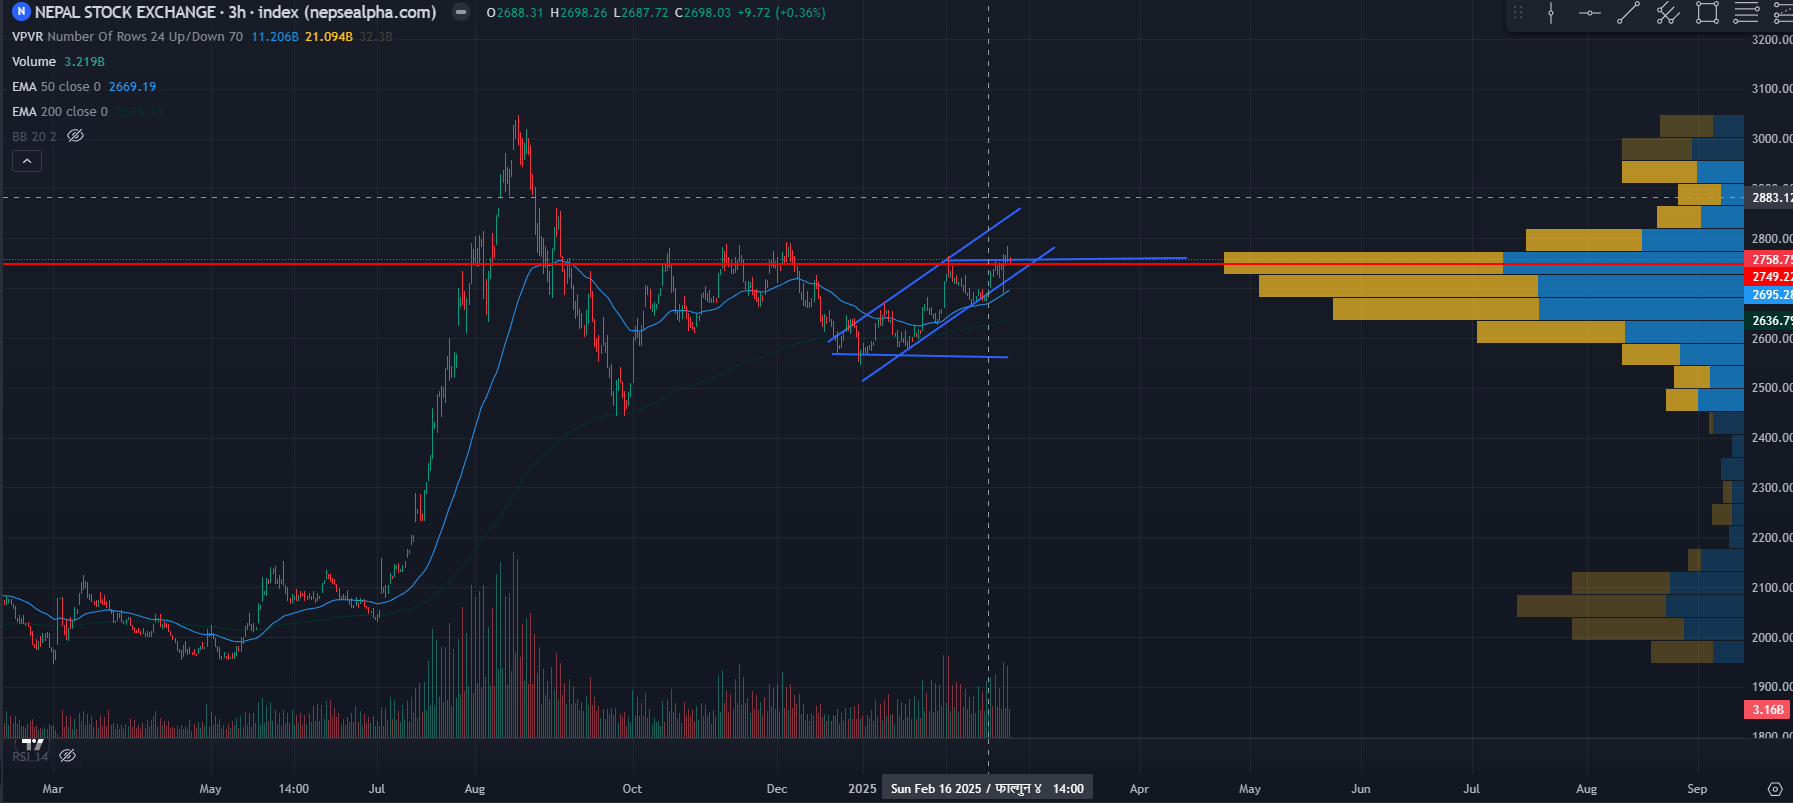
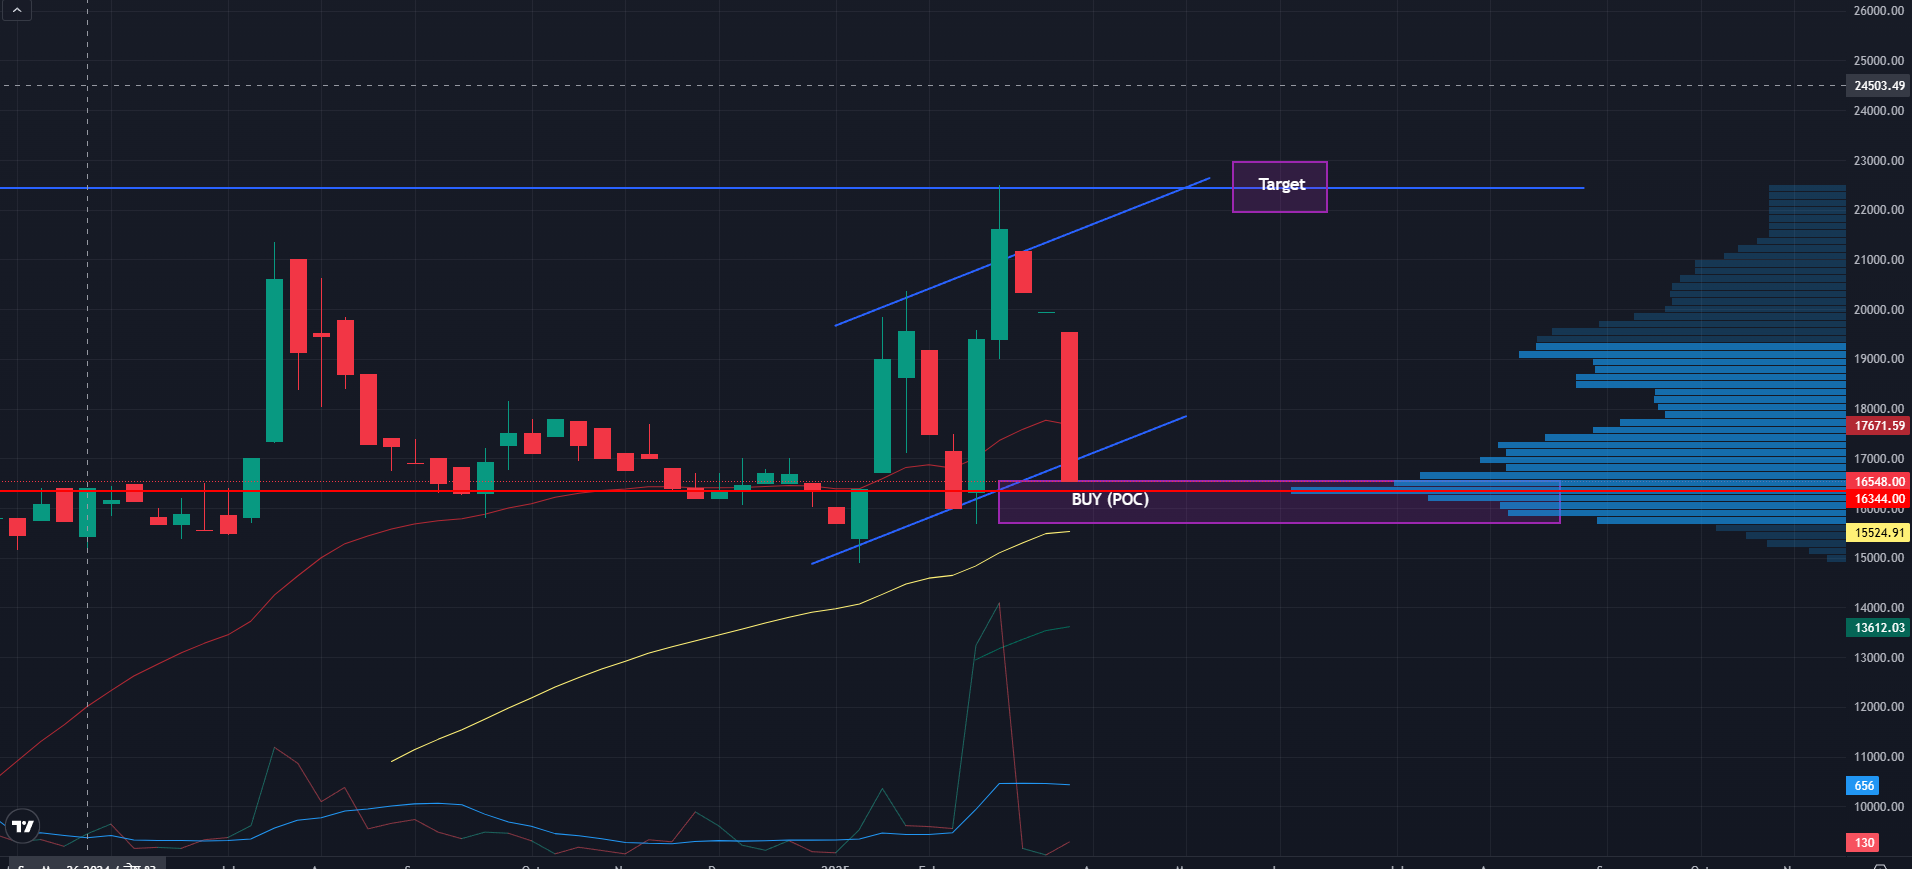
aws amplify push

diff --git a/src/components/dashboard/ValuationCard.tsx b/src/components/dashboard/ValuationCard.tsx
@@ -1,0 +1,64 @@
+import React  from "react";
+import { StockData } from "@/types/websocket";
+import { Card, CardContent, CardHeader } from "@/components/ui/card";
+import { TrendingUp, TrendingDown } from "lucide-react";
+
+interface Props {
+    stocks ?: StockData[];
+
+}
+
+const ValuationCard:React.FC<Props> = ({stocks}) => {
+    if (!stocks){
+        return (<div className="text-red-900">"No position "</div>)
+    }
+    var totalinvestment =  0;
+    var totalMarketValue = 0;
+    console.log(stocks)
+
+    stocks.forEach(stock => {
+        totalMarketValue = totalMarketValue + (stock.quantity * stock.ltp);
+        totalinvestment = totalinvestment + (stock.quantity * stock.price);
+
+    })
+
+    const isProfit =  (totalMarketValue > totalinvestment )
+    const color = isProfit ? 'text-green-500' : 'text-red:700'
+
+
+
+
+    return (
+        <div>
+            <Card className="bg-gradient-to-r from-gray-50 to-gray-200 dark:from-gray-800 dark:to-gray-900 shadow-lg rounded-xl  h-72 ">
+                <CardHeader className="text-2xl font-bold ">
+                    <span>Portfolio Summary</span>
+                    <div className={`flex  justify-center  ${color}`}>
+                         {isProfit ? <TrendingUp className="m-1"/>  : <TrendingDown className="m-1"/>} {isProfit ? " Profit" : " Loss"}</div>
+                </CardHeader>
+                <CardContent>
+                    <div className="text-6xl font-bold">
+                        {isProfit ? <span className={`${color}`}> +{(totalMarketValue - totalinvestment).toFixed(2)}</span> 
+                        : <span className={`${color}`}> -{(totalMarketValue - totalinvestment).toFixed(2)}</span>}
+
+                    </div>
+
+                    <div className="p-2">
+                        Total Investment : <span className=" dark:text-gray-300 text-gray-800 text-lg">Rs {totalinvestment}</span>
+                    </div>
+                    <div className="p-2">
+                        Market Value : <span className="dark:text-gray-300 text-lg text-gray-800">Rs {totalMarketValue}</span> 
+                    </div>
+
+
+                </CardContent>
+
+
+            </Card>
+
+        </div>
+    )
+
+}
+
+export default ValuationCard

diff --git a/src/pages/tradingDashboard.tsx b/src/pages/tradingDashboard.tsx
@@ -6,6 +6,7 @@ import DarkModeToggle from '@/components/dashboard/DarkModeToggle';
 import NepseIndexCard from '@/components/dashboard/NepseIndexCard';
 import PositionCard from '@/components/dashboard/PositionCard';
 import WatchlistItem from '@/components/dashboard/WatchlistItem';
+import ValuationCard from '@/components/dashboard/ValuationCard';
 import { Table, TableHeader, TableRow, TableHead, TableBody, TableCell } from "@/components/ui/table";
 import { useFilteredMarketData } from "@/hooks/useFilteredStocks";
 import LeadingSectorCard from '@/components/dashboard/LeadingSectorCard';
@@ -16,13 +17,12 @@ import TechChart from '@/components/graphs/technicalChart';
 const TradingDashboard = () => {
 
   const { filteredWatchlists,filteredStocks, filteredSectors, isConnected, isError } = useFilteredMarketData();
-  console.log(filteredStocks)
 
   // Simulated data
 
 
   return (
-  <div className="flex flex-col max-h-[100vh]  transition-colors md:px-16 md:my-10 duration-200  dark:bg-gray-900 bg-gray-50 ">
+  <div className="flex flex-col max-h-[100vh] transition-colors md:px-16 md:my-10 duration-200  dark:bg-gray-900 bg-gray-50 ">
     <div>
       <TechChart/>
     </div>
@@ -35,7 +35,7 @@ const TradingDashboard = () => {
           <DarkModeToggle />
         </div>
         
-        <div className='flex w-3/4 mx-auto'>
+        <div className='flex w-full mx-auto'>
           <div className='m-2 p-2'>
             <NepseIndexCard  stockData={filteredSectors[0]}  />
           </div>
@@ -44,6 +44,9 @@ const TradingDashboard = () => {
           </div>
           <div className='m-2 p-2'>
             <DailyGainCard stocks = {filteredStocks}></DailyGainCard>
+          </div>
+          <div className='m-2 p-2'>
+            <ValuationCard stocks = {filteredStocks}/>
           </div>
           <div className='flex flex-grow  m-2 p-2 h-72'>
             <Card className="bg-white dark:bg-gray-800 flex-1">

diff --git a/src/hooks/useFilteredStocks.ts b/src/hooks/useFilteredStocks.ts
@@ -15,13 +15,11 @@ export function useFilteredMarketData() {
   const [filteredSectors, setFilteredSectors] = useState<IndexData[]>([]);
   const [filteredWatchlists, setFilteredWatchlists] = useState<StockData[]>([]);
 
-  console.log(stockPositions)
   // Function to filter relevant stocks
    const filterRelevantStocks = (stocksData: StockData[]) => {
 
     if (!stocksData || !watchlist || !stockPositions) return [];
     const stockPositionsMap = new Map(stockPositions.map(stock => [stock.symbol, stock]));
-    console.log(stockPositionsMap)
 
     return ( stocksData
       .filter(stock => stockPositionsMap.has(stock.symbol))
@@ -52,12 +50,10 @@ export function useFilteredMarketData() {
 
   useEffect(() => {
     if (data && isWebSocketMessage(data)) {
-      console.log("WebSocket Data:", data);
 
       setIndices(data.indices);
       setStocks(data.stock);
       // Filter stocks and sectors
-      console.log(filterRelevantStocks(data.stock))
       setFilteredStocks(filterRelevantStocks(data.stock));
       setFilteredSectors(filterRelevantSectors(data.indices));
       setFilteredWatchlists(filterRelevantWatchlist(data.stock))

diff --git a/src/components/dashboard/DailyGainCard.tsx b/src/components/dashboard/DailyGainCard.tsx
@@ -37,7 +37,7 @@ const DailyGainCard: React.FC<Props> = ({ stocks = [] }) => {
     return (
         <Card className="bg-gradient-to-r from-gray-50 to-gray-200 dark:from-gray-800 dark:to-gray-900 shadow-lg rounded-xl p-2 h-72 ">
             <CardHeader className="text-xl md:text-3xl font-semibold text-gray-700 dark:text-gray-200 text-center">
-                Daily Loss Gain
+                Today's Gain
             </CardHeader>
             <CardContent className="flex flex-col items-center gap-3">
                 <div className="flex items-center gap-2 text-lg font-medium text-gray-600 dark:text-gray-300">
@@ -45,7 +45,7 @@ const DailyGainCard: React.FC<Props> = ({ stocks = [] }) => {
                     <span className={amountColor}>{isLoss ? "Loss" : "Profit"}</span>
                 </div>
                 <div className={`text-3xl md:text-6xl font-bold ${amountColor}`}>
-                    {finalAmount.toFixed(2)} RS
+                    {finalAmount.toFixed(2)} 
                 </div>
                 <div className={`text-lg md:text-2xl ${amountColor}`}>
                     {totalPercentReturn.toFixed(2)}% Return

diff --git a/src/components/dashboard/WatchlistItem.tsx b/src/components/dashboard/WatchlistItem.tsx
@@ -28,9 +28,9 @@ const WatchlistItem:React.FC<Props> = ({ stock }) => {
         <div className="flex  justify-between items-center p-3 border rounded-lg dark:border-gray-700 dark:bg-gray-800 ">
             <span className="font-semibold dark:text-white">{stock.symbol}</span>
             <div className="flex items-center gap-4">
-            <span className="dark:text-gray-300">{stock.ltp.toFixed(1)} NPR</span>
+            <span className="dark:text-gray-300">{stock.ltp.toFixed(1)} Rs</span>
             <span className={`${stock.change >= 0 ? 'text-green-600 dark:text-green-400' : 'text-red-600 dark:text-red-400'}`}>
-                {stock.percentChange >= 0 ? '+' : ''}{stock.change.toFixed(1)}%
+                 {stock.percentChange >= 0 ? '+' : ''}{stock.change.toFixed(1)} Rs
             </span>
             </div>
         </div>

diff --git a/src/components/dashboard/PositionCard.tsx b/src/components/dashboard/PositionCard.tsx
@@ -11,7 +11,6 @@ const PositionCard: React.FC<Props> = ({ position }) => {
     if (!position) {
         return <div className="text-red-500 text-center font-medium">No positions available</div>;
     }
-    console.log(position,'from position card')
 
     const profit = position.quantity * (position.ltp - position.price);
     const marketValue = position.quantity * position.ltp;

diff --git a/src/components/graphs/technicalChart.tsx b/src/components/graphs/technicalChart.tsx
@@ -13,7 +13,6 @@ export interface Chart {
 const TechChart = () => {
   const [mergedData, setMergedData] = useState<Chart[]>([]);
   const { filteredStocks } = useFilteredMarketData(); // Fetch stocks from API
-  console.log(filteredStocks)
 
   useEffect(() => {
     if (!filteredStocks.length) return; // Avoid running when data is empty
